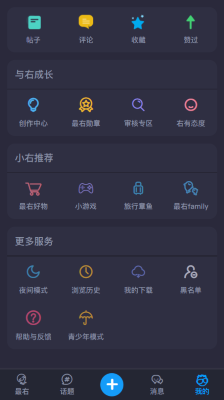
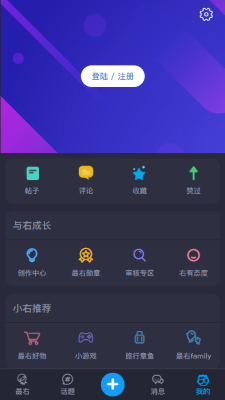
main

diff --git a/README.md b/README.md
@@ -31,3 +31,5 @@ yarn serve
 ![](static-files/消息1.png)
 
 ![](static-files/我的.png)
+
+![](static-files/我的1.png)
